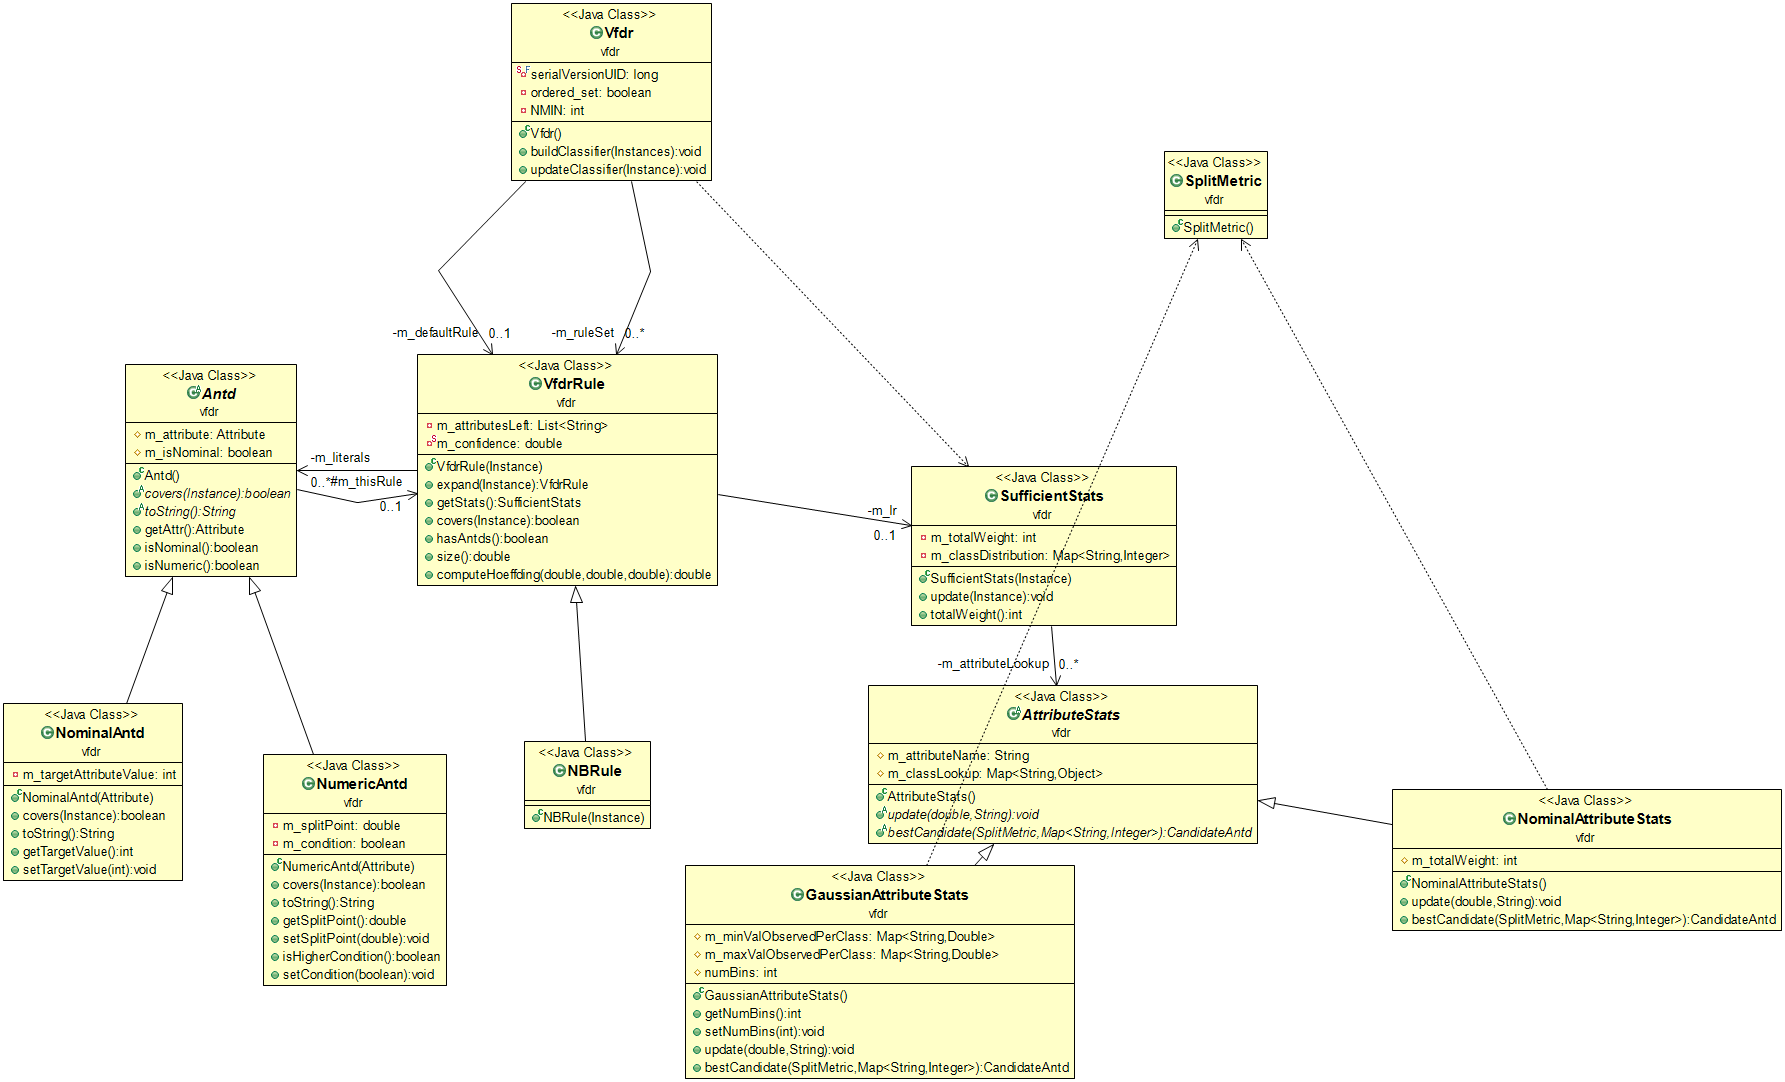
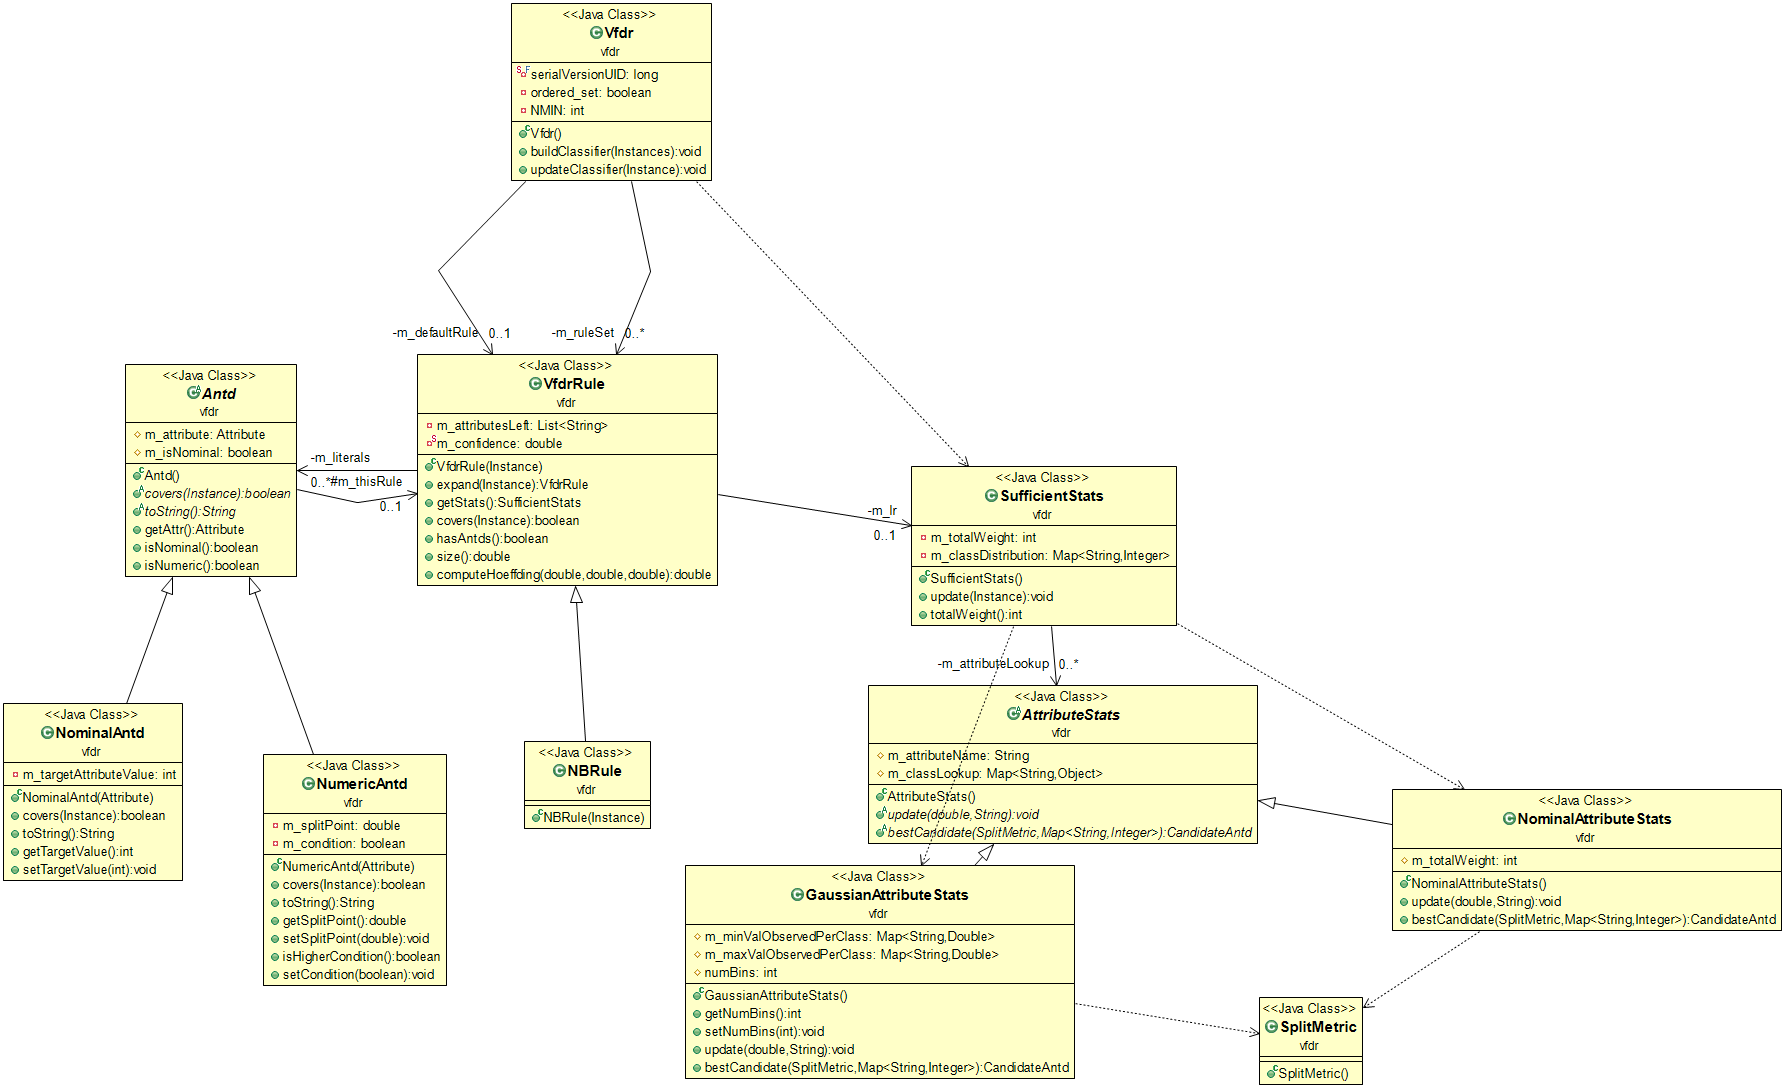
Fixed SufficientStats update routine

diff --git a/Vfdr-weka/src/vfdr/SufficientStats.java b/Vfdr-weka/src/vfdr/SufficientStats.java
@@ -27,17 +27,6 @@ public class SufficientStats {
 	private Map<String, AttributeStats> m_attributeLookup = new LinkedHashMap<>();
 
 	/**
-	 * Creates sufficient statistics using an example as a template for
-	 * attributes
-	 * 
-	 * @param template
-	 *            Template instance
-	 */
-	public SufficientStats(Instance template) {
-
-	}
-
-	/**
 	 * Updates the sufficient statistics to take one more example in account.
 	 * 
 	 * @param inst
@@ -59,6 +48,16 @@ public class SufficientStats {
 		// update stats for each attribute
 		for (int i = 0; i < inst.numAttributes(); i++) {
 			Attribute a = inst.attribute(i);
+			AttributeStats stats = m_attributeLookup.get(a.name());
+			if (stats == null) {
+				if (a.isNumeric()) {
+					stats = new GaussianAttributeStats();
+				} else {
+					stats = new NominalAttributeStats();
+				}
+				m_attributeLookup.put(a.name(), stats);
+			}
+
 			m_attributeLookup.get(a.name()).update(inst.value(a), classVal);
 		}
 		m_totalWeight++;

diff --git a/Vfdr-weka/src/vfdr/VfdrRule.java b/Vfdr-weka/src/vfdr/VfdrRule.java
@@ -6,8 +6,8 @@ import java.util.List;
 import weka.core.Instance;
 
 /**
- * Represents a rule for the Vfdr algorithm. Rules are comprised of a
- * conjunction of antecedents, and a set of sufficient statistics.
+ * Represents a rule for the Vfdr algorithm. Rules are made of a conjunction of
+ * antecedents, and a set of sufficient statistics.
  * 
  * @author cl-fo
  *
@@ -33,7 +33,7 @@ public class VfdrRule {
 	 */
 	public VfdrRule(Instance template) {
 		m_literals = new ArrayList<>();
-		m_lr = new SufficientStats(template);
+		m_lr = new SufficientStats();
 		m_attributesLeft = new ArrayList<>();
 		for (int i = 0; i < template.numAttributes(); i++) {
 			m_attributesLeft.add(template.attribute(i).name());
